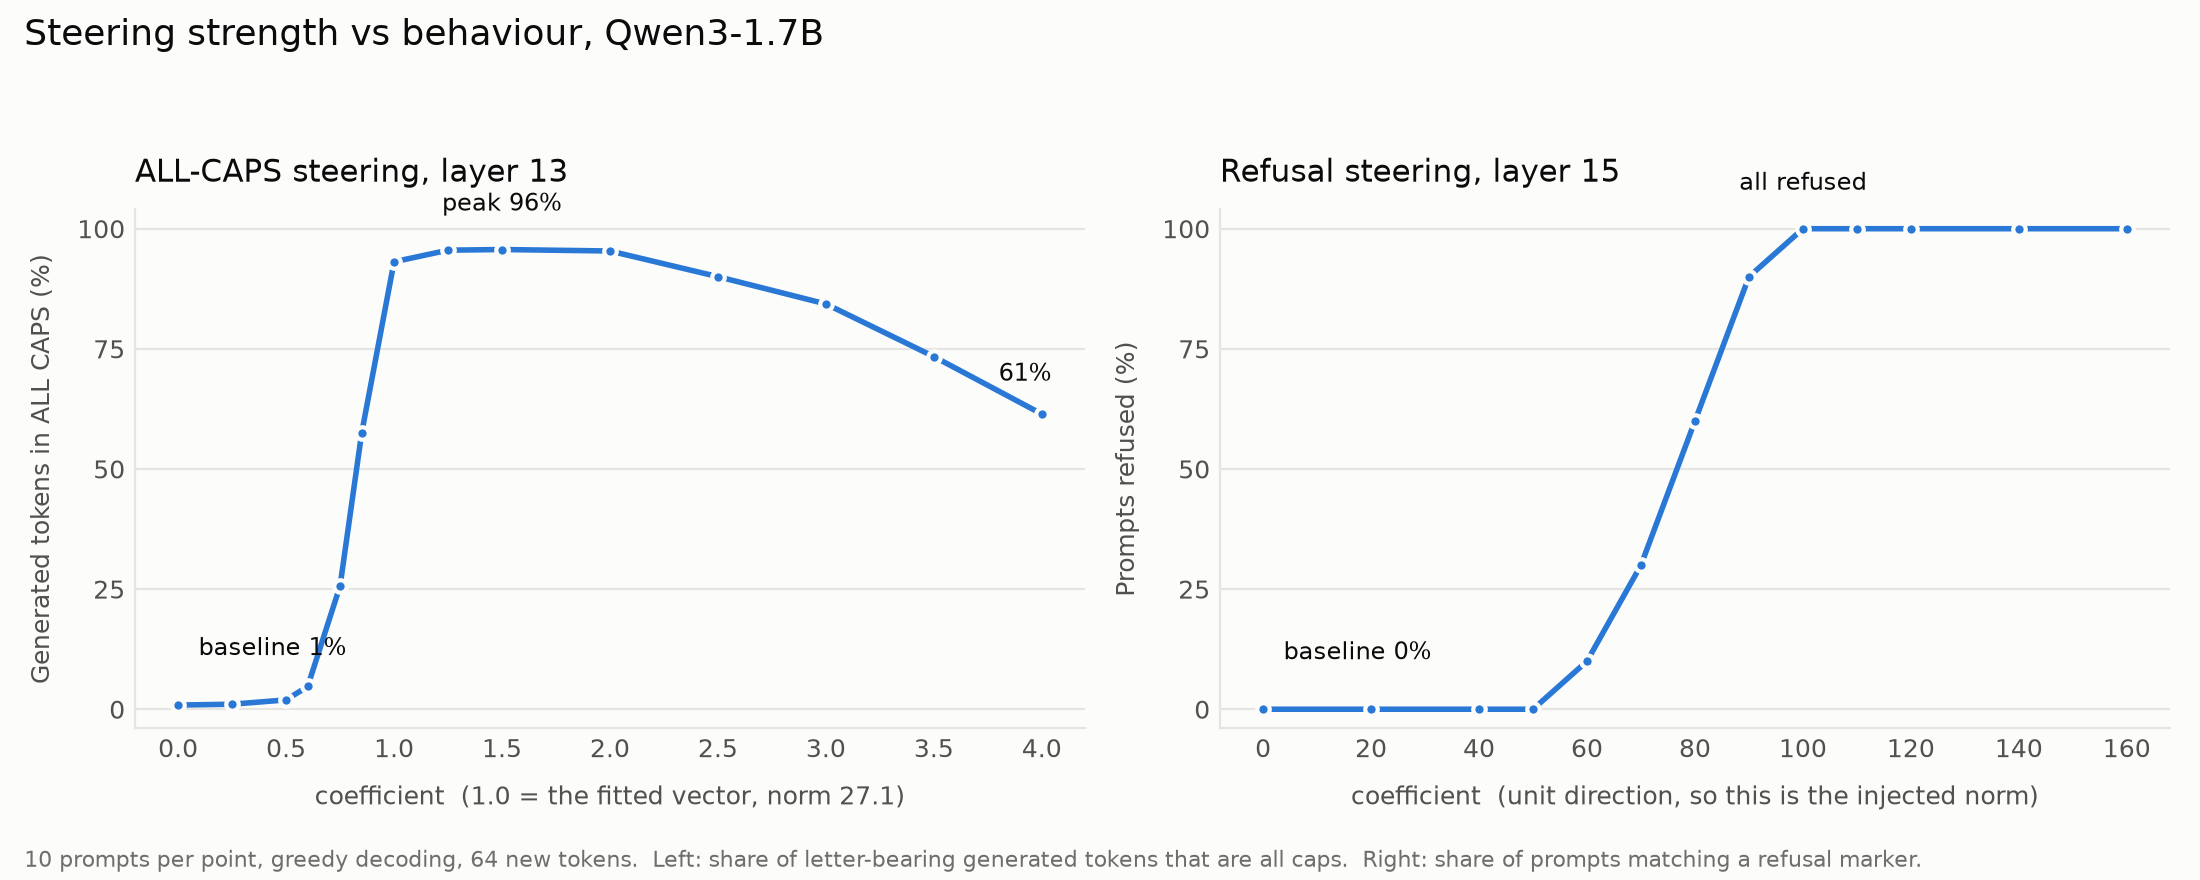
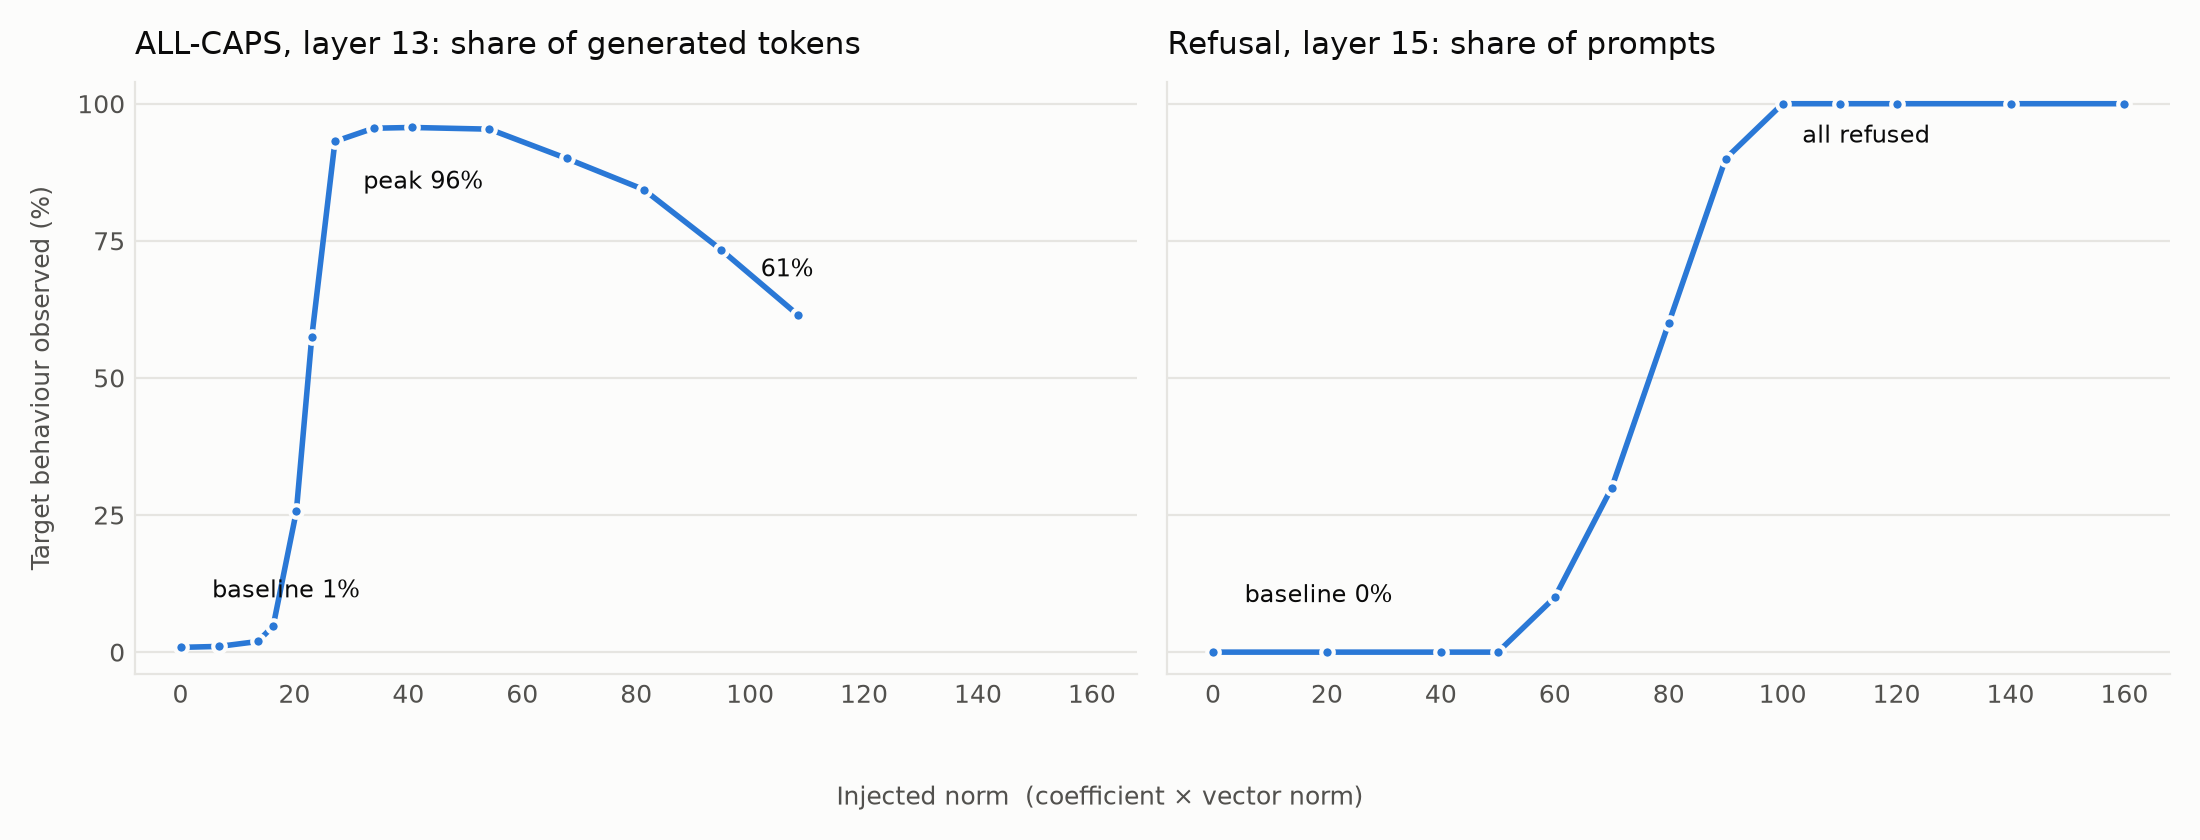
Plot both sweeps on a shared injected-norm axis
The raw coefficient meant different perturbations per panel: the caps
vector ships at norm 27.1, the refusal directions are unit norm. Plot
coefficient x ||vector|| instead, with shared x and y across both
panels, and drop the figure title and footnote.

Document why each layer was picked: 13 is fixed by the caps vector's
provenance, 15 is the abliteration peak and is tied with 16 on the
independent check. Both are pinned, not optimised.

diff --git a/scripts/plots.py b/scripts/plots.py
@@ -16,11 +16,11 @@ MARKER_SIZE = 4.5
 MARKER_RING = 1.5
 
 
-def _style_axes(ax, title, xlabel, ylabel):
+def _style_axes(ax, title, ylabel=None):
     ax.set_facecolor(SURFACE)
     ax.set_title(title, color=TEXT_PRIMARY, fontsize=11, pad=10, loc="left")
-    ax.set_xlabel(xlabel, color=TEXT_SECONDARY, fontsize=9, labelpad=8)
-    ax.set_ylabel(ylabel, color=TEXT_SECONDARY, fontsize=9, labelpad=8)
+    if ylabel:
+        ax.set_ylabel(ylabel, color=TEXT_SECONDARY, fontsize=9, labelpad=8)
     ax.set_ylim(-4, 104)
     ax.set_yticks([0, 25, 50, 75, 100])
     ax.grid(axis="y", color=GRID, linewidth=0.8, linestyle="-")
@@ -63,54 +63,36 @@ def _annotate(ax, x, y, label, offset=(0, 14)):
 
 
 def render(caps, refusal, path):
-    fig, axes = plt.subplots(1, 2, figsize=(11, 4.4), dpi=200)
+    fig, axes = plt.subplots(1, 2, figsize=(11, 4.2), dpi=200, sharex=True, sharey=True)
     fig.patch.set_facecolor(SURFACE)
 
-    caps_x = [point["coefficient"] for point in caps["points"]]
+    caps_x = [point["injected_norm"] for point in caps["points"]]
     caps_y = [100 * point["measure"] for point in caps["points"]]
     _style_axes(
         axes[0],
-        f"ALL-CAPS steering, layer {caps['layer']}",
-        f"coefficient  (1.0 = the fitted vector, norm {caps['vector_norm']:.1f})",
-        "Generated tokens in ALL CAPS (%)",
+        f"ALL-CAPS, layer {caps['layer']}: share of generated tokens",
+        "Target behaviour observed (%)",
     )
     _plot_series(axes[0], caps_x, caps_y)
     peak = max(range(len(caps_y)), key=lambda i: caps_y[i])
-    _annotate(axes[0], caps_x[peak], caps_y[peak], f"peak {caps_y[peak]:.0f}%")
-    _annotate(axes[0], caps_x[0], caps_y[0], f"baseline {caps_y[0]:.0f}%", offset=(34, 18))
-    _annotate(axes[0], caps_x[-1], caps_y[-1], f"{caps_y[-1]:.0f}%", offset=(-6, 12))
+    _annotate(axes[0], caps_x[peak], caps_y[peak], f"peak {caps_y[peak]:.0f}%", offset=(4, -22))
+    _annotate(axes[0], caps_x[0], caps_y[0], f"baseline {caps_y[0]:.0f}%", offset=(38, 18))
+    _annotate(axes[0], caps_x[-1], caps_y[-1], f"{caps_y[-1]:.0f}%", offset=(-4, 14))
 
-    refusal_x = [point["coefficient"] for point in refusal["points"]]
+    refusal_x = [point["injected_norm"] for point in refusal["points"]]
     refusal_y = [100 * point["measure"] for point in refusal["points"]]
-    _style_axes(
-        axes[1],
-        f"Refusal steering, layer {refusal['layer']}",
-        "coefficient  (unit direction, so this is the injected norm)",
-        "Prompts refused (%)",
-    )
+    _style_axes(axes[1], f"Refusal, layer {refusal['layer']}: share of prompts")
     _plot_series(axes[1], refusal_x, refusal_y)
     saturated = next((i for i, value in enumerate(refusal_y) if value >= 100), len(refusal_y) - 1)
-    _annotate(axes[1], refusal_x[saturated], refusal_y[saturated], "all refused")
-    _annotate(axes[1], refusal_x[0], refusal_y[0], f"baseline {refusal_y[0]:.0f}%", offset=(34, 18))
+    _annotate(axes[1], refusal_x[saturated], refusal_y[saturated], "all refused", offset=(30, -14))
+    _annotate(axes[1], refusal_x[0], refusal_y[0], f"baseline {refusal_y[0]:.0f}%", offset=(38, 18))
 
-    fig.suptitle(
-        "Steering strength vs behaviour, Qwen3-1.7B",
-        x=0.011,
-        y=0.98,
-        ha="left",
-        color=TEXT_PRIMARY,
-        fontsize=13,
+    fig.supxlabel(
+        "Injected norm  (coefficient \u00d7 vector norm)",
+        color=TEXT_SECONDARY,
+        fontsize=9,
+        y=0.035,
     )
-    fig.text(
-        0.011,
-        0.015,
-        f"{caps['n_prompts']} prompts per point, greedy decoding, {caps['max_new_tokens']}"
-        " new tokens.  Left: share of letter-bearing generated tokens that are all caps."
-        "  Right: share of prompts matching a refusal marker.",
-        color=TEXT_MUTED,
-        fontsize=8,
-        ha="left",
-    )
-    fig.tight_layout(rect=(0, 0.045, 1, 0.93))
+    fig.tight_layout(rect=(0, 0.055, 1, 1))
     fig.savefig(path, facecolor=SURFACE)
     plt.close(fig)

diff --git a/README.md b/README.md
@@ -121,39 +121,63 @@ directions are essentially orthogonal.
 ```
 
 Both vectors are added to the residual stream at every position, hooked on the
-output of one decoder layer: layer 13 for the caps vector, layer 15 (the
-abliteration peak) for the refusal direction. 10 prompts per point, greedy
-decoding, 64 new tokens.
+output of one decoder layer. 10 prompts per point, greedy decoding, 64 new
+tokens.
 
 ![steering sweep](artifacts/steering_eval.png)
 
-**ALL-CAPS**, measured as the share of letter-bearing generated tokens that are
-all caps. Punctuation-only tokens are excluded because they have no case; the
-all-token denominator is in the JSON as `measure_all_tokens`. Baseline is 1%.
-Nothing happens until coefficient 0.6, then it snaps: 5% at 0.6, 26% at 0.75,
-58% at 0.85, 93% at 1.0. It peaks at 96% around 1.25-2.0 and then **decays to
-61% by 4.0** — not because the steering weakens but because the model comes
-apart. At 4.0 it emits `"A GOOD COPPFE is NOT JUSTICE, but also a journey"`. The
-usable window is roughly 1.0-2.0, and the published vector's own scale sits right
-at the bottom of it.
+The x-axis is the **injected norm**, `coefficient x ||vector||`, not the raw
+coefficient. The two vectors have very different norms — `caps_L13.pt` ships at
+norm 27.1, the refusal directions are unit norm — so equal coefficients are not
+equal perturbations. Plotted this way both panels share one scale. Raw
+coefficients are in `steering_eval.json` alongside `injected_norm`.
 
-**Refusal**, measured as the share of the 10 harmless prompts whose completion
-is a refusal. Baseline is 0%. Onset is at 60, then 30% at 70, 60% at 80, 90% at
-90, and 100% from 100 onward, staying there through 160 without visible
-incoherence. Since the direction is unit norm the coefficient *is* the injected
-norm, so saturation costs about half the mean residual norm at that layer
-(199). Steered hard, it refuses to explain a bicycle gear system.
+**ALL-CAPS**, the share of letter-bearing generated tokens that are all caps.
+Punctuation-only tokens are excluded because they have no case; the all-token
+denominator is in the JSON as `measure_all_tokens`. Baseline 1%. Nothing happens
+below norm 16, then it snaps: 26% at 20, 58% at 23, 93% at 27. It peaks at 96%
+between 34 and 54 and then **decays to 61% by 108** — not because the steering
+weakens but because the model comes apart. At the far end it emits
+`"A GOOD COPPFE is NOT JUSTICE, but also a journey"`. The published vector's own
+scale, 27.1, sits right at the bottom of the usable window.
 
-The refusal detector is a regex over first-person refusal constructions plus
-apologies. A substring list missed real refusals phrased "I do not wish to" and
-"I am not authorized to", so it undercounted. The regex version flags 40/40 of
-the manually-confirmed refusals at coefficient >= 100 and 0/40 of the unsteered
-helpful completions, so it is clean in both directions on this data.
+**Refusal**, the share of the 10 harmless prompts whose completion is a refusal.
+Baseline 0%. Onset at 60, then 30% at 70, 60% at 80, 90% at 90, and 100% from
+100 through 160 with no visible incoherence. Steered hard it declines to explain
+a bicycle gear system.
+
+So caps saturates at roughly a quarter of the injected norm refusal needs. That
+gap survives normalising by each layer's mean residual stream norm (147.5 at 13,
+198.7 at 15): caps needs about 18% of the residual norm, refusal about 50%.
+
+### Why those layers
+
+Layer 13 for caps is not a choice — the file is `caps_L13.pt`, fitted for layer
+13. Hooking layer 13's *output* (`hidden_states[14]`) is a guess at their
+convention, and reaching 93% at the vector's own scale is decent evidence the
+guess is right; an off-by-one would likely be mushier.
+
+Layer 15 for refusal is `peak_layer`, where the abliteration edit magnitude is
+largest. Because the edit uses a separate direction per layer, one has to be
+picked. Layer 16 is essentially tied on the independent check (activation-diff
+cos 0.866 versus 0.864), so 15 versus 16 is arbitrary.
+
+Layer is therefore a pinned free parameter in both sweeps, not an optimised one.
+Sweeping it is the obvious next experiment.
+
+### Measuring refusal
+
+The detector is a regex over first-person refusal constructions plus apologies.
+A substring list missed real refusals phrased "I do not wish to" and "I am not
+authorized to", so it undercounted and flattened the top of the curve. The regex
+version flags 40/40 of the manually-confirmed refusals at injected norm >= 100
+and 0/40 of the unsteered helpful completions, so it is clean in both directions
+on this data.
 
 Two caveats. Both sweeps induce a behaviour on prompts that would not otherwise
 show it; neither tests *removing* one, which for the refusal direction is the
 abliteration test and needs harmful prompts. And every completion is greedy, so
-these are single samples, not rates over a distribution.
+each point is 10 single samples, not a rate over a distribution.
 
 ## A note on this network
 
